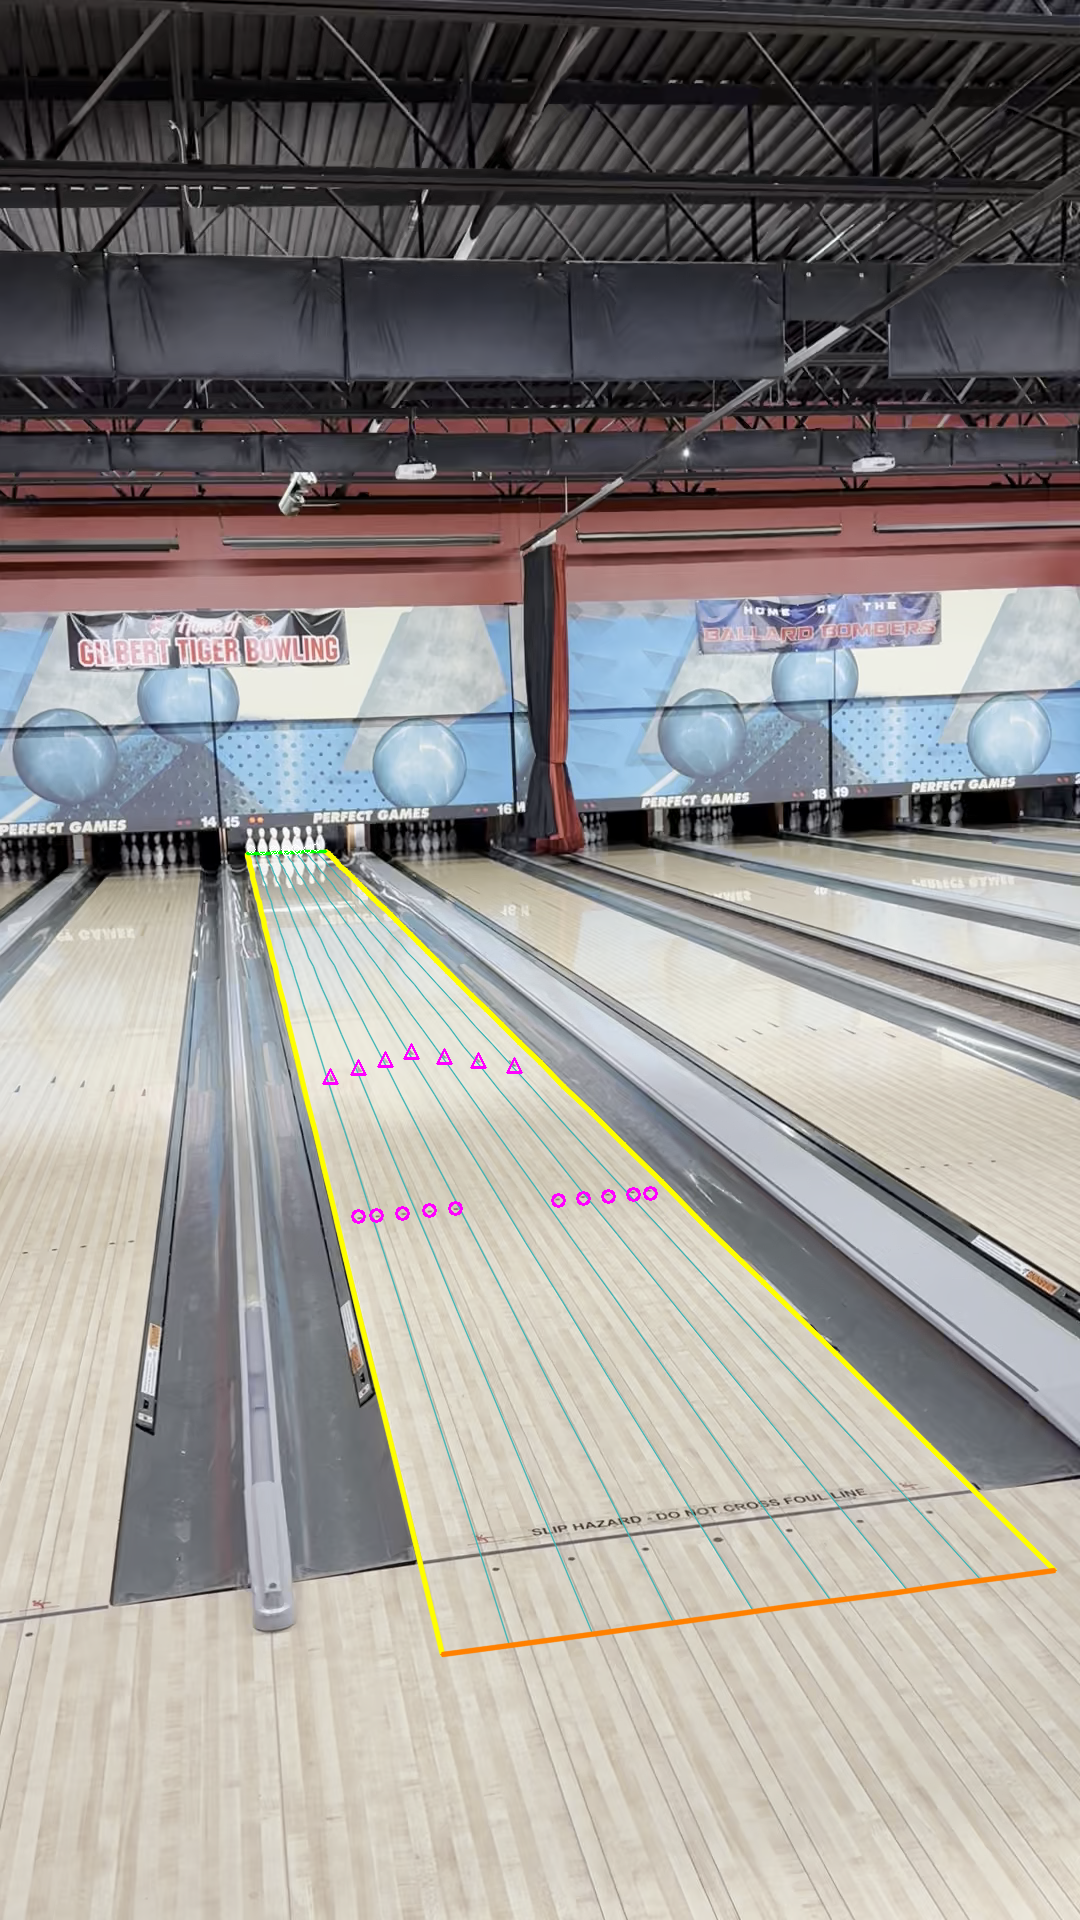
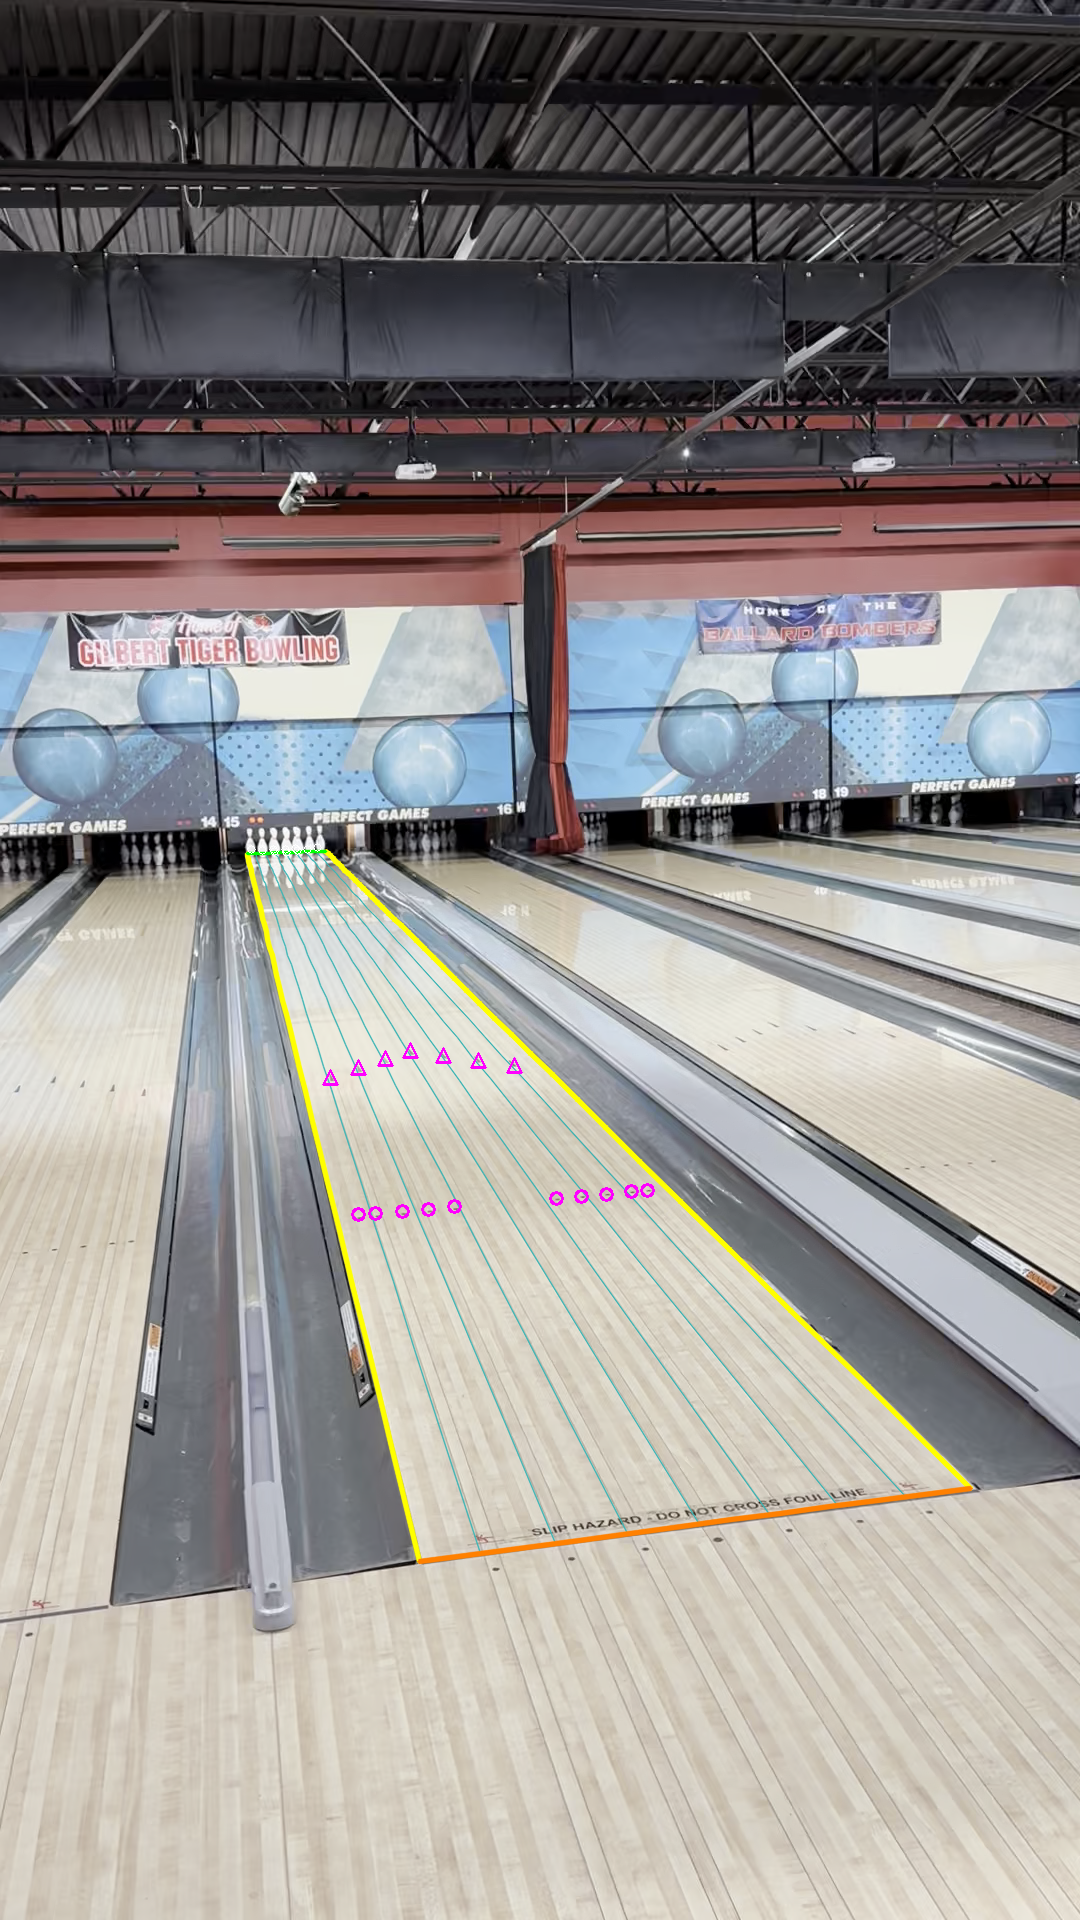
experiments: fix 5113-15 foul lines caught in Adam's overlay review — corridors re-centered on the painted line, refs refit; entry boards and Monte Carlo unchanged
Claude-Session: https://claude.ai/code/session_0175LawGuboU53MVRDQM4QqD

diff --git a/experiments/calibration_v11/README.md b/experiments/calibration_v11/README.md
@@ -87,6 +87,15 @@ Batch-2 placement note: the phone was re-propped between EVERY batch-2
 clip (5112/5113≈5114/5115 all differ; 5114 is rolled). Real users will do
 this too — supports per-throw drift checking and cheap recalibration.
 
+Batch-2 correction (Aug 28): Adam's overlay review caught the 5113/5114/
+5115 foul lines drawn on the approach (5113 ~85 px low) and 5115 tilted.
+Cause: the foul-line sampling corridors were seeded below the real line,
+so the edge sampler locked onto approach seams; with the headpin pinned
+at 60 ft the fit stretched past the rack too. Corridors re-centered on
+the painted line (64-89 edge samples each), references re-fit. Entry
+boards moved <0.2; the Monte Carlo table below reproduced unchanged.
+5112 was verified correct as-is.
+
 ## Experiment 1a: tap-noise Monte Carlo (monte_carlo.py, Aug 25)
 
 2000 trials x 8 references x 5 entry boards; entry-board |error| at 60 ft.
